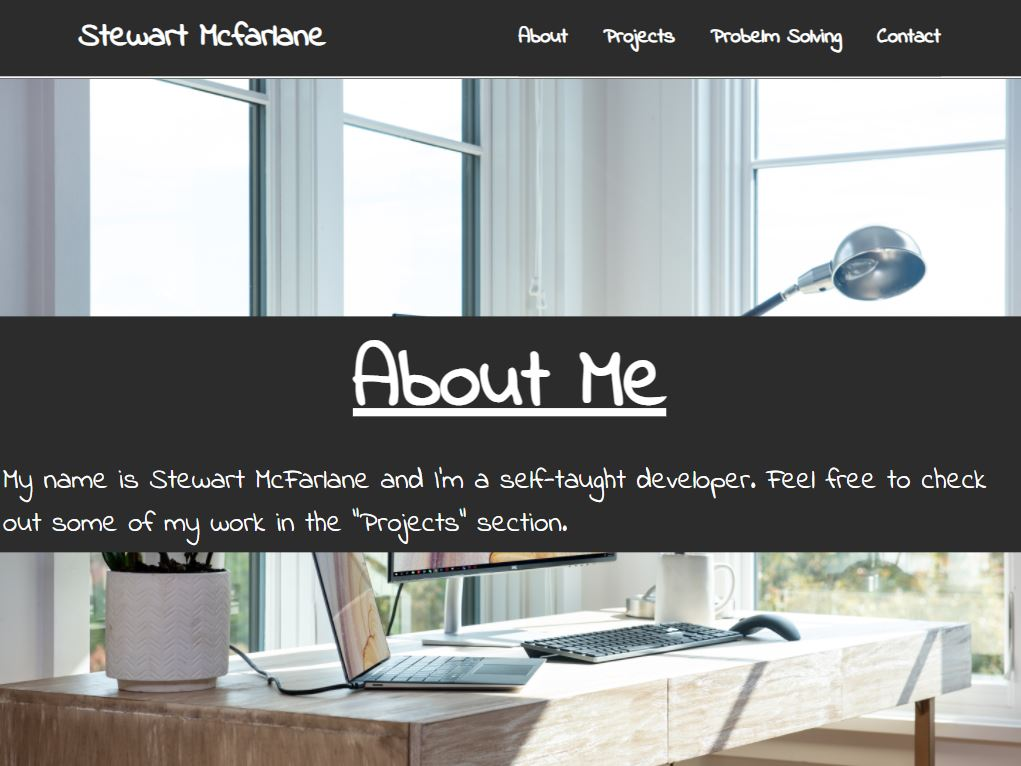
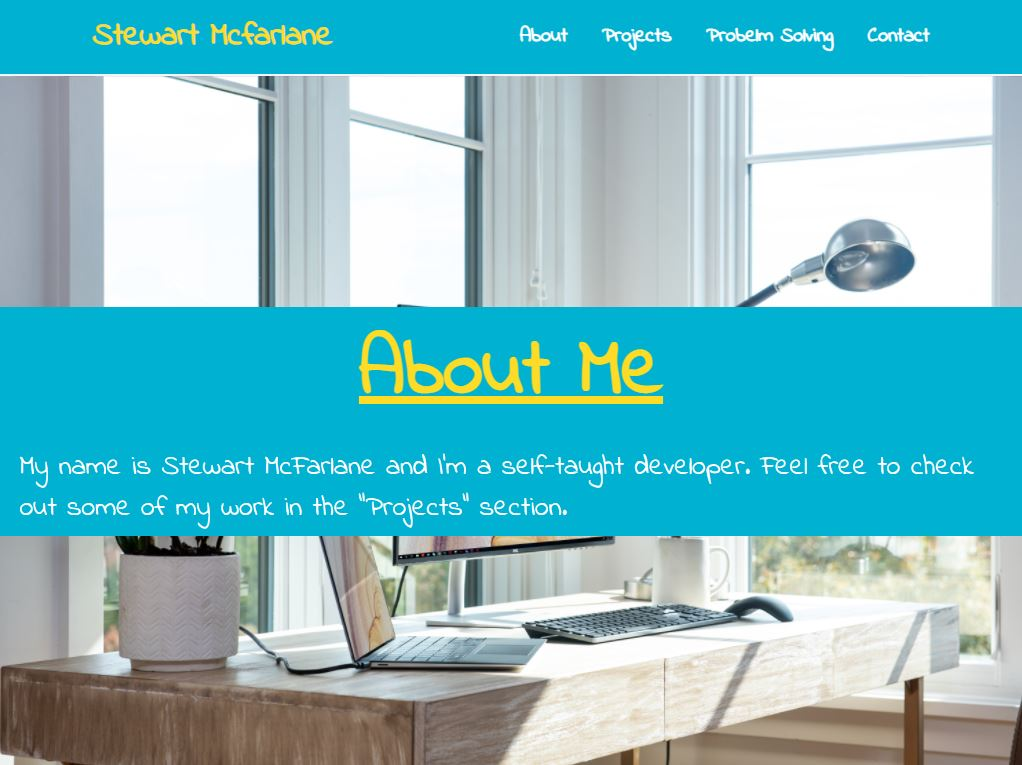
NavLinks smooth-scroll
Here I've installed the smooth-scroll package and wrapped each nav link in a Link component. I gave each section the correct id and match it with the Link component of each nav link. Now when nav links are clicked, the page scrolls smoothly to the respective section.

diff --git a/personal-website-v2/src/Components/Navbar/Navbar.js b/personal-website-v2/src/Components/Navbar/Navbar.js
@@ -1,15 +1,24 @@
 import React from 'react';
 import { NavbarContainer, NavLogo, NavLinksContainer, NavLink, MenuIcon, /*MenuCloseIcon*/ } from './NavbarElements';
+import { Link } from 'react-scroll';
 
 const Navbar = ({menuOpen, toggleMenu}) => {
     return (
         <NavbarContainer>
             <NavLogo>Stewart Mcfarlane</NavLogo>
             <NavLinksContainer menuOpen={menuOpen}>
-                <NavLink>About</NavLink>
-                <NavLink>Projects</NavLink>
-                <NavLink>Probelm Solving</NavLink>
-                <NavLink>Contact</NavLink>
+                <Link to="about" smooth={true} duration={750}>
+                    <NavLink>About</NavLink>
+                </Link>
+                <Link to="projects" smooth={true} duration={750}>
+                    <NavLink>Projects</NavLink>
+                </Link>
+                <Link to="problem-solving" smooth={true} duration={750}>
+                    <NavLink>Probelm Solving</NavLink>  
+                </Link>
+                <Link to="contact" smooth={true} duration={750}>
+                    <NavLink>Contact</NavLink>
+                </Link>
             </NavLinksContainer>
             <MenuIcon onClick={toggleMenu}/>
             {/* <MenuCloseIcon onClick={toggleMenu}/> */}

diff --git a/personal-website-v2/src/Components/Hero/Hero.js b/personal-website-v2/src/Components/Hero/Hero.js
@@ -2,7 +2,7 @@ import React from 'react'
 import { HeroContainer, HeroContent, HeroH1, HeroP } from './HeroComponents';
 const Hero = () => {
     return (
-        <HeroContainer>
+        <HeroContainer id="about">
             <HeroContent>
                 <HeroH1>About Me</HeroH1>
                 <HeroP>My name is Stewart McFarlane and I'm a self-taught developer. Feel free to check out some of my work in the "Projects" section.</HeroP>

diff --git a/personal-website-v2/src/Components/Footer/Footer.js b/personal-website-v2/src/Components/Footer/Footer.js
@@ -6,7 +6,7 @@ import { SiCodecademy } from 'react-icons/si';
 
 const Footer = () => {
     return (
-        <FooterContainer>
+        <FooterContainer id="contact">
             <FooterHeading>Contact</FooterHeading>
             <FooterDisplayContainer>
                 <FooterEmail>stewartmcfarlane1542@outlook.com</FooterEmail>

diff --git a/personal-website-v2/src/Components/Projects/Projects.js b/personal-website-v2/src/Components/Projects/Projects.js
@@ -3,7 +3,7 @@ import { ProjectsContainer, ProjectsHeading, ProjectsDisplayContainer, Project, 
 
 const Projects = ({ projectsData }) => {
     return (
-        <div>
+        <div id="projects">
             <ProjectsContainer>
                 <ProjectsHeading>Projects</ProjectsHeading>
                 <ProjectsDisplayContainer>

diff --git a/personal-website-v2/src/Components/ProblemSolving/ProblemSolving.js b/personal-website-v2/src/Components/ProblemSolving/ProblemSolving.js
@@ -18,7 +18,7 @@ const ProblemSolving = ({ problemSolvingData }) => {
     }
 
     return (
-        <ProblemSolvingWrapper>
+        <ProblemSolvingWrapper id="problem-solving">
             <ProblemSolvingHeading>Problem-Solving</ProblemSolvingHeading>
             {problems.map( (problem, index) => {
                 return (

diff --git a/personal-website-v2/src/Components/Footer/FooterElements.js b/personal-website-v2/src/Components/Footer/FooterElements.js
@@ -28,7 +28,7 @@ export const FooterDisplayContainer = styled.div`
     display: flex;
     justify-content: space-around;
     align-items: center;
-    background-color: #00c3e6;
+    background-color: #2B2C2C;
 
     @media screen and (max-width: 900px) {
         min-height: 10vh;

diff --git a/personal-website-v2/src/Components/Navbar/NavbarElements.js b/personal-website-v2/src/Components/Navbar/NavbarElements.js
@@ -34,6 +34,7 @@ export const NavLinksContainer = styled.div`
     justify-content: space-between;
     align-items: center;
     transition: 0.8s ease-out;
+    background-color: #00B1D2FF;
 
     @media screen and (max-width: 900px) {
         position: fixed;
